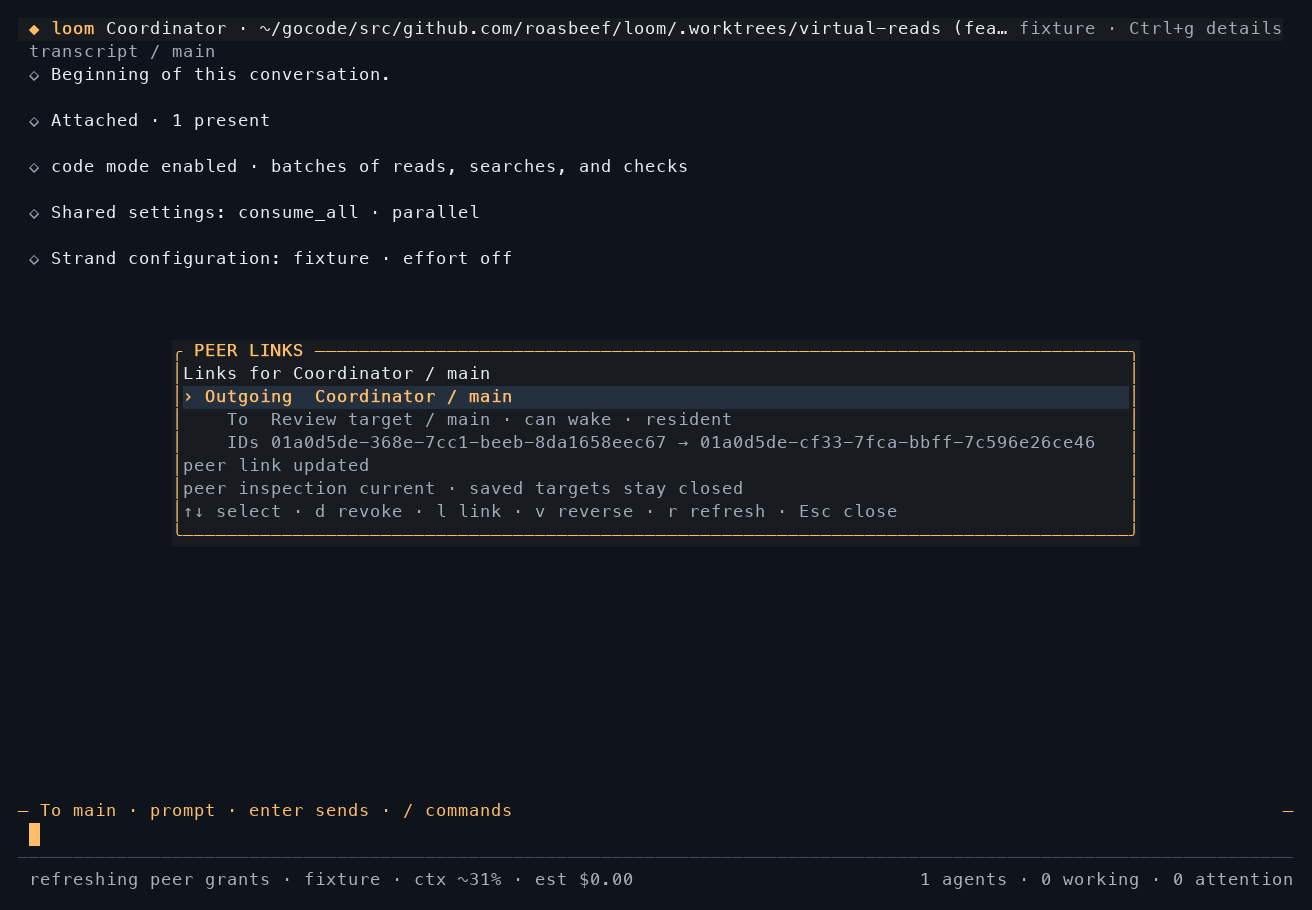
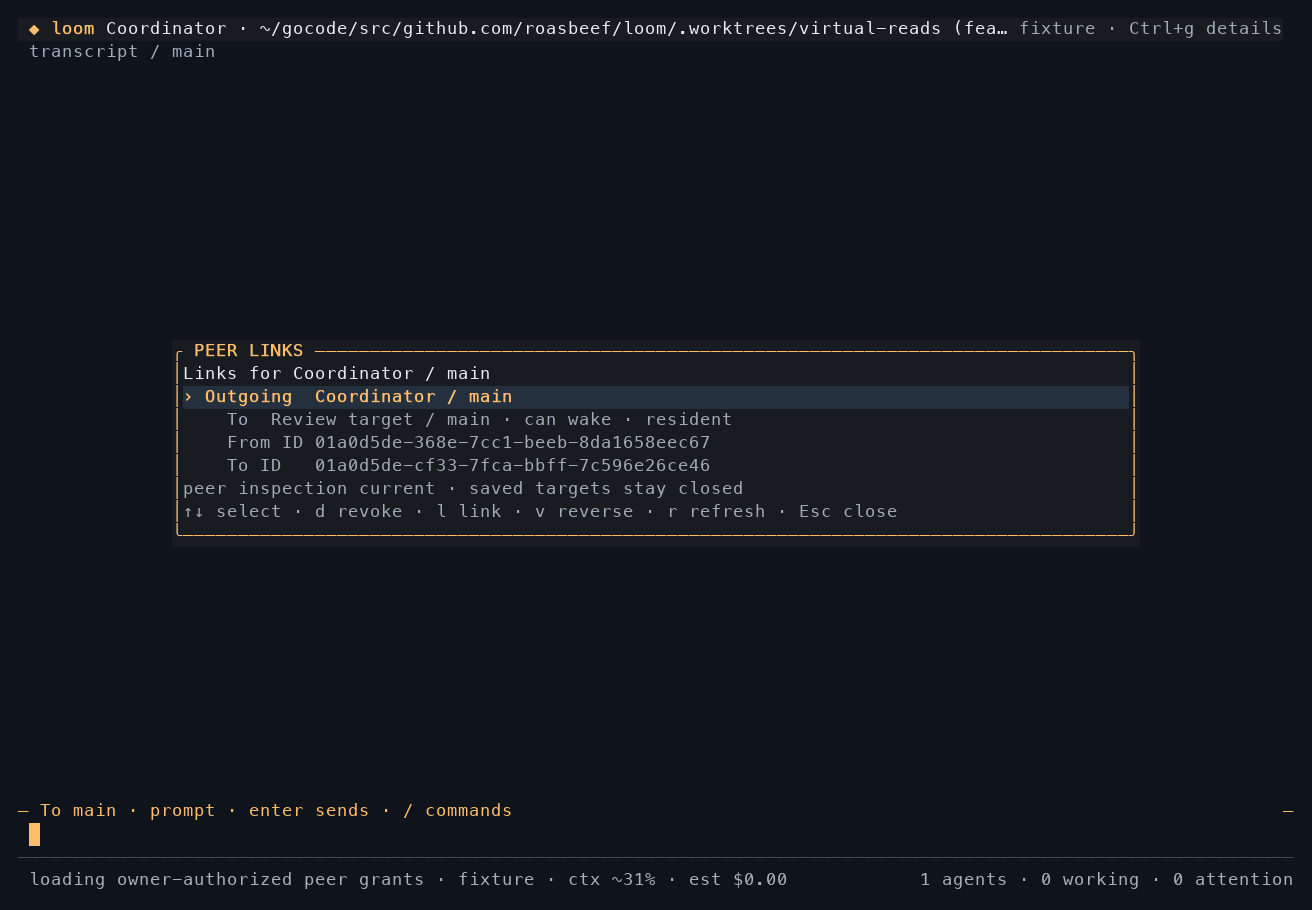
docs: recapture exact peer identities
Replace the linked-result frame with a native capture of the corrected grant view and record how the isolated fixture was captured.

diff --git a/docs/images/README.md b/docs/images/README.md
@@ -30,12 +30,17 @@ results, and UI elements were not composited or rewritten for the image.
 ## Peer-link captures
 
 `peer-links-chooser.png`, `peer-links-confirm.png`, and `peer-links-linked.png`
-show the native 116-by-38 terminal at post-split code commit `0e3fae3f`. Two
+show the native 116-by-38 terminal after the #495 TUI split. Two
 sample sessions were resident in the same isolated daemon. The operator
 selected **Review target** from `/sessions`, keeping **Coordinator / main** as
 the source, then pressed `l`. The operator entered the target's exact `main`
 strand, explicitly selected the `may_wake` permission, and created the link.
 No model request was sent.
+
+The linked-result capture uses the corrected four-line grant view, which keeps
+both full session IDs visible at an 80-column terminal width. Its local
+transcript was cleared before capture so a daemon-version notice from the
+isolated fixture does not obscure the link.
 
 Each image renders an actual full-color `tmux capture-pane -e -p` frame with
 `docs/design-notes/tui-agent-workspace/render_capture.py`. The UI content was
